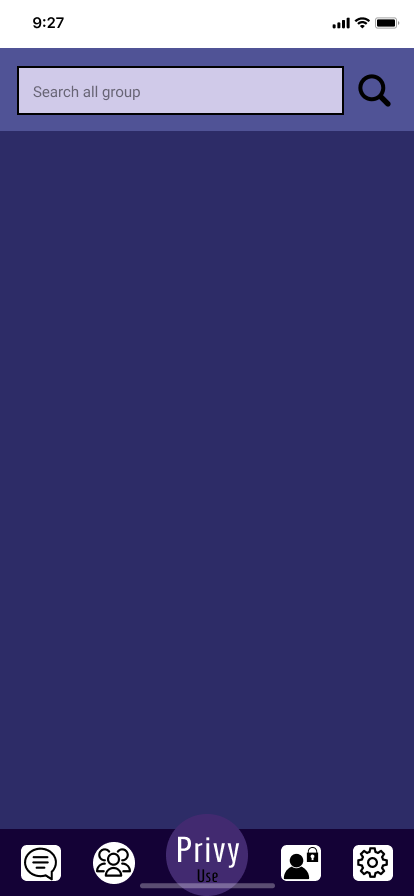
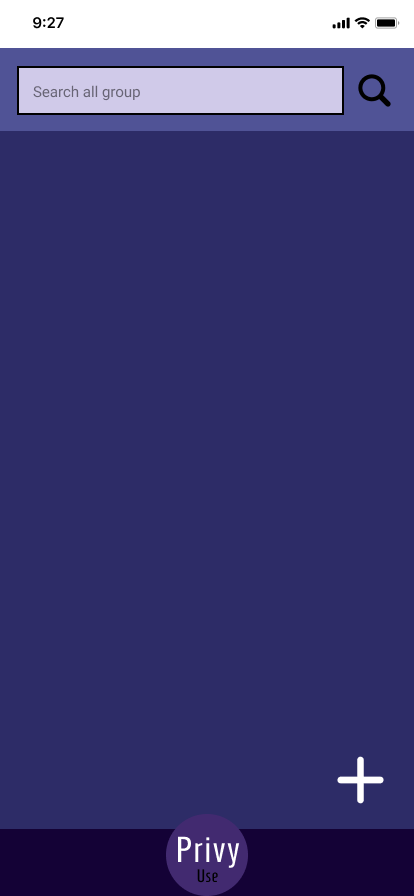
Update HomePageBar

diff --git a/src/LoginApp.css b/src/LoginApp.css
@@ -1,100 +1,130 @@
 .LogoApp {
 /* LogoApplication */
-
-text-align: center;
-position: relative;
-width: 414px;
-height: 896px;
-margin: auto;
-background-image: url(/src/AppchatUpdate/LogoApplication.png);
-box-shadow: 0px 4px 4px rgba(0, 0, 0, 0.25);
-background-position: center ;
-background-size: 103%;
-background-repeat: no-repeat;
+    text-align: center;
+    position: relative;
+    width: 414px;
+    height: 896px;
+    margin: auto;
+    background-image: url(/src/AppchatUpdate/LogoApplication.png);
+    box-shadow: 0px 4px 4px rgba(0, 0, 0, 0.25);
+    background-position: center ;
+    background-size: 103%;
+    background-repeat: no-repeat;
 }
 
 .AppLogin{
-position: absolute;
-width: 167px;
-height: 52px;
-left: 17px;
-top: 770px;
+    position: absolute;
+    width: 167px;
+    height: 52px;
+    left: 17px;
+    top: 770px;
 }
 
 .AppRegister{
-position: absolute;
-width: 167px;
-height: 52px;
-left: 226px;
-top: 770px;
+    position: absolute;
+    width: 167px;
+    height: 52px;
+    left: 226px;
+    top: 770px;
 }
 
 .Login{
-position: relative;
-width: 414px;
-height: 896px;
-margin: auto;
-background-image: url(/src/AppchatUpdate/Log\ In.png);
+    position: relative;
+    width: 414px;
+    height: 896px;
+    margin: auto;
+    background-image: url(/src/AppchatUpdate/Log\ In.png);
 }
 
 .Undo{
-position: absolute;
-width: 28.55px;
-height: 23.85px;
-left: 13px;
-top: 58px;
+    position: absolute;
+    width: 28.55px;
+    height: 23.85px;
+    left: 13px;
+    top: 58px;
 }
 
 .SingIn{
-position: absolute;
-left: 8.7%;
-right: 8.45%;
-top: 35.27%;
-bottom: 58.93%;
+    position: absolute;
+    left: 8.7%;
+    right: 8.45%;
+    top: 35.27%;
+    bottom: 58.93%;
 }
 
 .Register{
-margin: auto;
-position: relative;
-width: 414px;
-height: 896px;
-background-image: url(/src/AppchatUpdate/RegisterStep1.png);
-box-shadow: 0px 4px 4px rgba(0, 0, 0, 0.25);
-
+    margin: auto;
+    position: relative;
+    width: 414px;
+    height: 896px;
+    background-image: url(/src/AppchatUpdate/RegisterStep1.png);
+    box-shadow: 0px 4px 4px rgba(0, 0, 0, 0.25);
 }
 
 .RegisterNextStep{
     
-position: absolute;
-left: 8.7%;
-right: 8.45%;
-top: 34.15%;
-bottom: 60.04%;
+    position: absolute;
+    left: 8.7%;
+    right: 8.45%;
+    top: 34.15%;
+    bottom: 60.04%;
 }
 
 .NextStep{
-margin: auto;
-position: relative;
-width: 414px;
-height: 896px;
-background-image: url(/src/AppchatUpdate/RegisterStep2Username.png);
-box-shadow: 0px 4px 4px rgba(0, 0, 0, 0.25);
+    margin: auto;
+    position: relative;
+    width: 414px;
+    height: 896px;
+    background-image: url(/src/AppchatUpdate/RegisterStep2Username.png);
+    box-shadow: 0px 4px 4px rgba(0, 0, 0, 0.25);
 }
 
 .SingUP{
-position: absolute;
-width: 343px;
-height: 52px;
-left: 36px;
-top: 242px;
+    position: absolute;
+    width: 343px;
+    height: 52px;
+    left: 36px;
+    top: 242px;
 }
 
 
 .HomePageInfo{
-margin: auto;
-position: relative;
-width: 414px;
-height: 896px;   
-background-image: url(/src/AppchatUpdate/AppHomePage.png);
-box-shadow: 0px 4px 4px rgba(0, 0, 0, 0.25);
+    margin: auto;
+    position: relative;
+    width: 414px;
+    height: 896px;   
+    background-image: url(/src/AppchatUpdate/AppHomePage.png);
+    box-shadow: 0px 4px 4px rgba(0, 0, 0, 0.25);
+}
+
+.ChatBar{
+    position: absolute;
+    width: 40px;
+    height: 38px;
+    left: 21px;
+    top: 845px;
+}
+
+.GroupBar{
+    position: absolute;
+    width: 42px;
+    height: 42px;
+    left: 93px;
+    top: 842px;
+}
+
+.PrivateBar{
+    position: absolute;
+    width: 40px;
+    height: 36px;
+    left: 281px;
+    top: 845px;
+}
+
+.SettingBar{
+    position: absolute;
+    width: 40px;
+    height: 36px;
+    left: 353px;
+    top: 845px;
 }

diff --git a/src/HomePage.js b/src/HomePage.js
@@ -1,8 +1,31 @@
 import {Link} from 'react-router-dom'
 
 function HomePage() {
-    <div className = "HomePageInfo">
-        asdas
+  return(
+
+     <div className = "HomePageInfo">
+        <div className = "ChatBar">
+            <Link to = "/Chat-Room">
+            <img src = "ChatBoxBar.Png" alt = "" />
+            </Link>
+        </div>
+        <div className = "GroupBar">
+            <Link to = "/GroupChatBox">
+            <img src = "GroupChat.Png" alt = "" />
+            </Link>
+        </div>
+        <div className = "PrivateBar">
+            <Link to = "/PrivateChatBox">
+            <img src = "Private.Png" alt = "" />
+            </Link>
+        </div>
+        <div className = "SettingBar">
+            <Link to = "/SettingBar">
+            <img src = "SettingBar.Png" alt = "" />
+            </Link>
+        </div>
+
     </div>
+  ) 
 }
 export default HomePage;

diff --git a/src/RegisterNextStep.js b/src/RegisterNextStep.js
@@ -10,7 +10,7 @@ function RegisterNextStep() {
              </Link>
              </div>
              <div className = "SingUP">
-            <Link to = "/Chat-Room">
+            <Link to = "/HomePage">
                 <img src = "ButtonSingUP.png" alt = "" />
             </Link>
              </div>

diff --git a/src/LoginPage.js b/src/LoginPage.js
@@ -13,7 +13,7 @@ function LoginPage() {
              </Link>
             </div>  
             <div className = "SingIn" >
-             <Link to = "/Chat-Room" >
+             <Link to = "/HomePage" >
                  <img src = "ButtonSingIn.png" alt = "" />
              </Link>
             </div>
